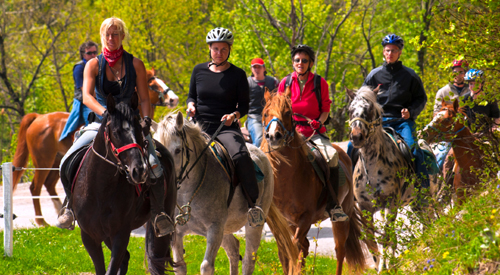
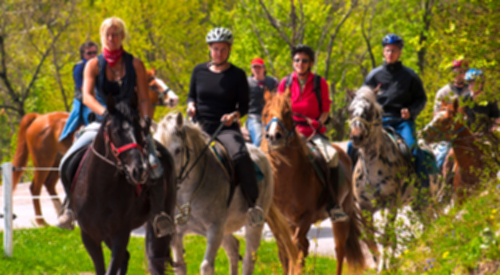
blurred images

diff --git a/index.html b/index.html
@@ -114,7 +114,8 @@
 								<div class="col-4 col-12-narrower">
 
 									<section>
-										<span class="icon solid featured fa-check"></span>
+										<!-- <span class="icon solid featured fa-check"></span> -->
+										<img src="images/banner.jpg" alt="" width="120" height="120">
 										<header>
 											<h3>The Farmhouse</h3>
 										</header>

diff --git a/assets/css/main.css b/assets/css/main.css
@@ -2531,10 +2531,6 @@ input, select, textarea {
 		padding: 6em 0;
 		text-align: center;
 	}
-	#banner.img {
-		filter: blur 8px ;
-
-	}
 
 		#banner .inner {
 			-moz-animation: reveal-banner 1s 0.25s ease-in-out;
